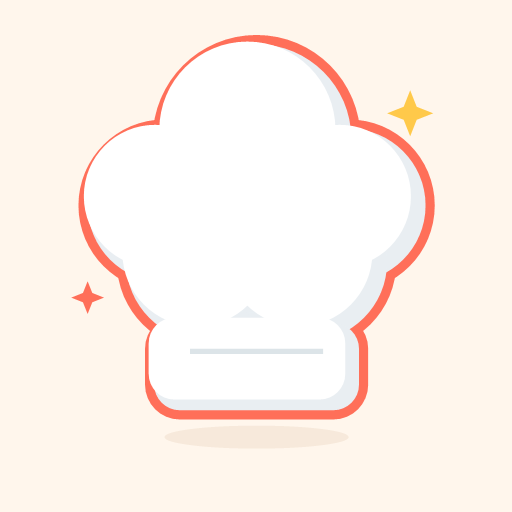
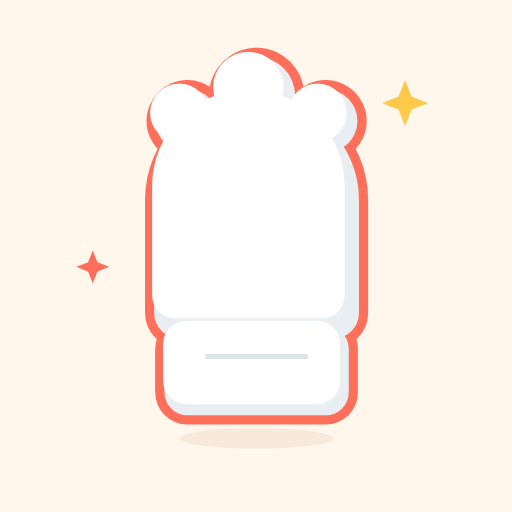
Redraw chef hat as a recognizable tall toque silhouette
The previous version read as a flower/cloud blob rather than a hat.
Rebuilds it as a classic tall poofy toque (rounded-top capsule with
a few scallop bumps) sitting on a band, keeping the coral outline,
shading, gloss, and sparkles. Bumps cache-busting to v=5.

diff --git a/index.html b/index.html
@@ -6,9 +6,9 @@
 <title>나의 레시피 상자</title>
 <meta name="description" content="내가 만든 레시피를 검색하고 가나다순으로 정리해서 보는 개인 레시피 앱" />
 
-<link rel="manifest" href="manifest.json?v=4" />
-<link rel="icon" href="icons/icon-192.png?v=4" type="image/png" />
-<link rel="apple-touch-icon" href="icons/apple-touch-icon.png?v=4" />
+<link rel="manifest" href="manifest.json?v=5" />
+<link rel="icon" href="icons/icon-192.png?v=5" type="image/png" />
+<link rel="apple-touch-icon" href="icons/apple-touch-icon.png?v=5" />
 
 <meta name="theme-color" content="#fff6ec" media="(prefers-color-scheme: light)" />
 <meta name="theme-color" content="#241b17" media="(prefers-color-scheme: dark)" />
